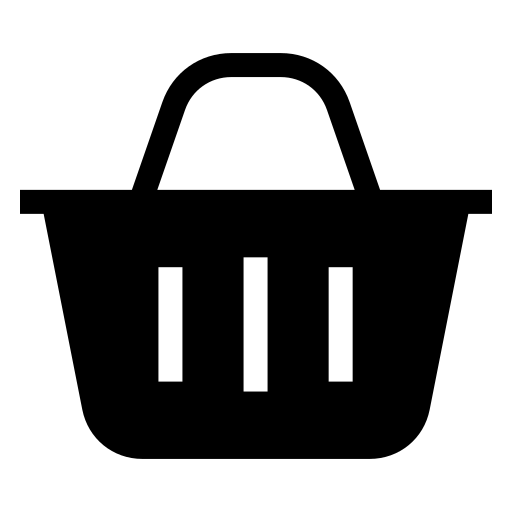
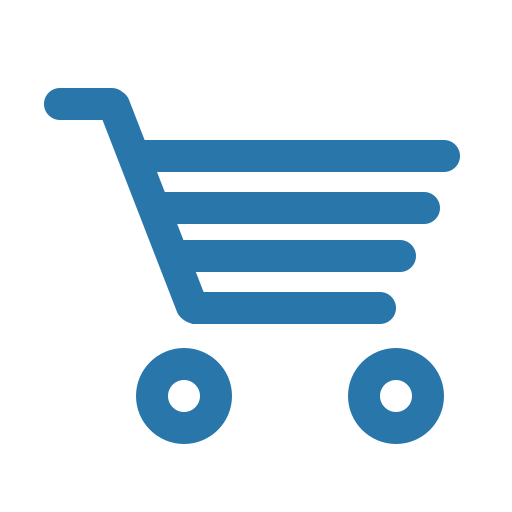
Uj header szin, uj kosar kep

diff --git a/index.html b/index.html
@@ -11,7 +11,7 @@
 </head>
 <body class="bg-light">
     <div class="Termekek">
-        <header class="bg-primary text-white py-3">
+        <header class="bg-dark text-white py-3">
             <div class="container d-flex align-items-center justify-content-between">
                 <p class="mb-0">Mini Webáruház</p>
                 <img src="Images/kosar.jpg" alt="Kosár" class="img-fluid" style="max-height:40px;">
@@ -86,7 +86,10 @@
                     <h5 class="mb-3">Kapcsolat</h5>
                     <ul class="lista">
                         <li class="mb-2">
-                            <i class="szin"></i> Szolnok Áchim András utca 12-14 <br> Szolnoki Kreatív Technikum és Szakképző Iskola
+                            <i class="szin"></i> Szolnok, Áchim András utca 12-14
+                        </li>
+                        <li class="mb-2">
+                            <i class="szin"></i> Szolnoki SZC Kreatív Technikum és Szakképző Iskola
                         </li>
                         <li class="mb-2">
                             <i class="szin"></i> +36 30 123 4567
@@ -98,10 +101,9 @@
                 </div>
 
                 <div class="col-md-6 text-center">
-                    <h5 class="mb-3">Nyitvatartás</h5>
-                    <p class="mb-1">Hétfő - Péntek: 08:00 - 18:00</p>
-                    <p>Szombat: 09:00 - 14:00</p>
-                    <p>Vasárnap: Zárva</p>
+                    <h5 class="mb-3">Rendelés</h5>
+                    <p class="mb-1">Hétfő - Péntek: 06:00 - 21:00</p>
+                    <p>Hétvégén: 08:00 - 18:00</p>
                 </div>
             </div>
             
@@ -115,8 +117,6 @@
         </div>
     </footer>
 
-<script src="https://cdnjs.cloudflare.com/ajax/libs/popper.js/2.9.2/umd/popper.min.js"></script>
-<script src="https://cdnjs.cloudflare.com/ajax/libs/twitter-bootstrap/5.1.0/js/bootstrap.min.js"></script>
     <script src="https://cdnjs.cloudflare.com/ajax/libs/popper.js/2.9.2/umd/popper.min.js"></script>
     <script src="https://cdnjs.cloudflare.com/ajax/libs/twitter-bootstrap/5.1.0/js/bootstrap.min.js"></script>
     <script src="JS/get.js"></script>
